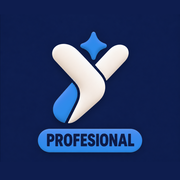
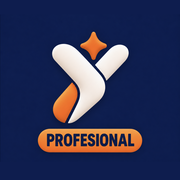
Las tres apps con la misma paleta (naranja, blanco y azul marino); se distinguen por nombre e ícono
- Se quita el tema de color por app (data-app, variantes de logo y script de recoloreo).
- Íconos de profesional y admin: «Y» naranja y blanca sobre azul marino con píldora PROFESIONAL / ADMIN.
- theme-color y manifests en naranja; docs/diseno-yavi.md sincronizado.

Claude-Session: https://claude.ai/code/session_01PReVzBZvEep99Jdh6gW8wZ

Changed region(s): [[0.1944, 0.4444, 0.8056, 0.8611], [0.4444, 0.1667, 0.6111, 0.3333]]

diff --git a/src/index.css b/src/index.css
@@ -74,64 +74,6 @@
   --yavi-clay-campo: inset 0 2px 5px rgb(120 53 15 / 0.09);
 }
 
-/*
- * Color por app (index.html fija data-app al compilar): cliente = naranja, profesional = verde azulado,
- * admin = violeta. Se redefinen los tokens brand-* y las variables que usan los degradados.
- */
-:root[data-app='profesional'] {
-  --color-brand-50: #eef4ff;
-  --color-brand-100: #dbe7ff;
-  --color-brand-200: #b9cffb;
-  --color-brand-300: #8badf0;
-  --color-brand-400: #5b84dc;
-  --color-brand-500: #2f5fc0;
-  --color-brand-600: #1c4aa6;
-  --color-brand-700: #123b8c;
-  --color-brand-800: #0d2f72;
-  --color-brand-900: #0a2358;
-  --color-brand-950: #061538;
-  --color-brand-ink: #061538;
-  --yavi-texto-boton: #ffffff;
-  --yavi-lienzo: #f5f8ff;
-  --yavi-foco: rgb(28 74 166 / 0.6);
-  --yavi-clay-boton: linear-gradient(180deg, #2f5fc0 0%, #0d2f72 100%);
-  --yavi-clay-boton-sombra: 0 10px 18px -8px rgb(13 47 114 / 0.6), inset 0 2px 0 rgb(255 255 255 / 0.25), inset 0 -3px 0 rgb(0 0 0 / 0.18);
-  --yavi-llamada: radial-gradient(120% 90% at 50% 0%, #b9cffb 0%, #8badf0 42%, #5b84dc 100%);
-  --yavi-sombra: 10 35 88;
-  --yavi-borde: rgb(10 35 88 / 0.12);
-  --yavi-clay-campo: inset 0 2px 5px rgb(10 35 88 / 0.09);
-  --yavi-fondo-cielo: #dbe7ff;
-  --yavi-tarjeta-fin: #eef4ff;
-  --yavi-burbuja: linear-gradient(145deg, #5b84dc 0%, #0d2f72 100%);
-  --yavi-burbuja-sombra: 0 8px 14px -6px rgb(13 47 114 / 0.55), inset 0 2px 0 rgb(255 255 255 / 0.4), inset 0 -3px 0 rgb(0 0 0 / 0.12);
-}
-:root[data-app='admin'] {
-  --color-brand-50: #f5f3ff;
-  --color-brand-100: #ede9fe;
-  --color-brand-200: #ddd6fe;
-  --color-brand-300: #c4b5fd;
-  --color-brand-400: #a78bfa;
-  --color-brand-500: #8b5cf6;
-  --color-brand-600: #7c3aed;
-  --color-brand-700: #6d28d9;
-  --color-brand-800: #5b21b6;
-  --color-brand-900: #4c1d95;
-  --color-brand-950: #2e1065;
-  --color-brand-ink: #2e1065;
-  --yavi-lienzo: #faf8ff;
-  --yavi-foco: rgb(124 58 237 / 0.6);
-  --yavi-clay-boton: linear-gradient(180deg, #d8ccff 0%, #a78bfa 100%);
-  --yavi-clay-boton-sombra: 0 10px 18px -8px rgb(124 58 237 / 0.6), inset 0 2px 0 rgb(255 255 255 / 0.32), inset 0 -3px 0 rgb(0 0 0 / 0.14);
-  --yavi-llamada: radial-gradient(120% 90% at 50% 0%, #d8ccff 0%, #b69cfb 42%, #8b5cf6 100%);
-  --yavi-sombra: 76 29 149;
-  --yavi-borde: rgb(76 29 149 / 0.12);
-  --yavi-clay-campo: inset 0 2px 5px rgb(76 29 149 / 0.09);
-  --yavi-fondo-cielo: #ede9fe;
-  --yavi-tarjeta-fin: #f6f3ff;
-  --yavi-burbuja: linear-gradient(145deg, #8b5cf6 0%, #5b21b6 100%);
-  --yavi-burbuja-sombra: 0 8px 14px -6px rgb(91 33 182 / 0.55), inset 0 2px 0 rgb(255 255 255 / 0.4), inset 0 -3px 0 rgb(0 0 0 / 0.12);
-}
-
 body {
   @apply text-neutral-900 antialiased;
   background: radial-gradient(120% 50% at 50% -8%, var(--yavi-fondo-cielo, #ffeedd) 0%, var(--yavi-lienzo) 58%) fixed;

diff --git a/src/components/Logo.tsx b/src/components/Logo.tsx
@@ -2,20 +2,13 @@
  * Marca YAVI. Se usan los archivos oficiales tal cual (public/brand, copia de brand/originales):
  * sin recortar ni deformar; `mix-blend-multiply` solo hace que el blanco del archivo se funda con el fondo.
  */
-import { APP } from '../lib/app'
-import { useAuth } from '../context/AuthContext'
-
-// Antes de entrar (inicio, login, registro) todas las apps usan el logo naranja original. Con sesión, profesional y admin
-// usan su variante de color (scripts/recolorear-marca.py). Mismo criterio que data-app en App.tsx.
-
 type Props = {
   variante?: 'icono' | 'completo'
   className?: string
 }
 
 export function Logo({ variante = 'completo', className = '' }: Props) {
-  const { session } = useAuth()
-  const CARPETA = APP === 'cliente' || !session ? '/brand' : `/brand/${APP}`
+  const CARPETA = '/brand'
   const completo = variante === 'completo'
   return (
     <img

diff --git a/vite.config.ts b/vite.config.ts
@@ -8,8 +8,8 @@ type TipoApp = 'cliente' | 'profesional' | 'admin'
 
 const MARCAS: Record<TipoApp, { nombre: string; corto: string; titulo: string; color: string }> = {
   cliente: { nombre: 'YAVI', corto: 'YAVI', titulo: 'YAVI — Servicios a tu alcance', color: '#ff7414' },
-  profesional: { nombre: 'YAVI Profesional', corto: 'YAVI Pro', titulo: 'YAVI Profesional — Trabaja con YAVI', color: '#0d2f72' },
-  admin: { nombre: 'YAVI Admin', corto: 'YAVI Admin', titulo: 'YAVI Admin', color: '#5b21b6' },
+  profesional: { nombre: 'YAVI Profesional', corto: 'YAVI Pro', titulo: 'YAVI Profesional — Trabaja con YAVI', color: '#ff7414' },
+  admin: { nombre: 'YAVI Admin', corto: 'YAVI Admin', titulo: 'YAVI Admin', color: '#ff7414' },
 }
 
 function htmlPorApp(app: TipoApp): Plugin {

diff --git a/src/App.tsx b/src/App.tsx
@@ -32,12 +32,6 @@ function App() {
     // eslint-disable-next-line react-hooks/exhaustive-deps
   }, [cargando])
 
-  // Color por app solo en las pantallas internas (con sesión). Inicio, login y registro conservan el naranja original.
-  const conSesion = !!session
-  useEffect(() => {
-    document.documentElement.dataset.app = conSesion ? APP : 'cliente'
-  }, [conSesion])
-
   // Al tocar una notificación push con la app ya abierta en otra pestaña,
   // el service worker enfoca esa pestaña y nos manda a dónde navegar (una
   // pestaña ya enfocada no cambia de URL sola).

diff --git a/scripts/icono-navy.py b/scripts/icono-navy.py
@@ -18,24 +18,6 @@ L = 1500
 base = Image.new('RGB', (L, L), FONDO)
 base.paste(cont.resize((1500, int(1500 * cont.height / cont.width))), (0, 120))
 
-def a_variante(img, desplaza):
-    a = np.asarray(img.convert('RGB'), dtype=np.float64) / 255
-    mx, mn = a.max(-1), a.min(-1); dd = mx - mn
-    r, g, b = a[..., 0], a[..., 1], a[..., 2]
-    h = np.zeros_like(mx); m = dd > 1e-9
-    rc = m & (mx == r); gc = m & (mx == g) & ~rc; bc = m & ~rc & ~gc
-    h[rc] = ((g - b)[rc] / dd[rc]) % 6; h[gc] = (b - r)[gc] / dd[gc] + 2; h[bc] = (r - g)[bc] / dd[bc] + 4
-    h *= 60; s = np.where(mx > 0, dd / np.where(mx > 0, mx, 1), 0)
-    hn = np.where(h > 340, h - 360, h)
-    mk = (hn < 65) & (s > 0.15)
-    h2 = np.where(mk, desplaza + 0.5 * np.clip(hn, -20, 65), h)
-    h6 = (h2 % 360) / 60; i = np.floor(h6).astype(int) % 6; f = h6 - np.floor(h6)
-    p, q, t = mx * (1 - s), mx * (1 - s * f), mx * (1 - s * (1 - f))
-    out = np.zeros(a.shape)
-    for k, (rr, gg, bb) in enumerate([(mx, t, p), (q, mx, p), (p, mx, t), (p, q, mx), (t, p, mx), (mx, p, q)]):
-        w = i == k; out[w] = np.stack([rr[w], gg[w], bb[w]], -1)
-    return Image.fromarray((out * 255).round().astype(np.uint8))
-
 def pastilla(img, texto, c1, c2):
     # Pinta de nuevo la zona de la píldora con el fondo y dibuja una nueva con el texto.
     dr = ImageDraw.Draw(img)
@@ -65,9 +47,9 @@ def guardar(img, app):
     for nombre, px in [('icon-512.png', 512), ('icon-192.png', 192), ('apple-touch-icon.png', 180), ('favicon-64.png', 64)]:
         img.resize((px, px), Image.LANCZOS).save(os.path.join(RAIZ, app, nombre))
 
-guardar(a_variante(base, 200), 'profesional')  # celeste sobre azul marino (el naranja es del cliente)
+guardar(base, 'profesional')  # naranja, blanco y azul marino (colores de la marca) (el naranja es del cliente)
 Image.fromarray(np.asarray(base)).resize((1024, 1024), Image.LANCZOS).save(os.path.join(RAIZ, 'profesional', 'yavi-icono-naranja-original.png'))
-adm = a_variante(base, 255)
-pastilla(adm, 'ADMIN', (205, 188, 255), (139, 92, 246))
+adm = base.copy()
+pastilla(adm, 'ADMIN', (244, 160, 80), (224, 104, 44))
 guardar(adm, 'admin')
 print('ok')

diff --git a/docs/diseno-yavi.md b/docs/diseno-yavi.md
@@ -15,12 +15,8 @@ La app se presenta como **YAVI — «Servicios a tu alcance»**. Conecta cliente
 - `rounded-lg…3xl` y `shadow-xs…xl` redefinidos: radios generosos, sombra difusa tibia y reflejo interior superior (claymorphism moderado).
 - Como la app ya usaba esas clases, el estilo llega a todas las pantallas sin tocarlas una por una.
 
-## Color por app
-`App.tsx` marca `<html data-app="cliente|profesional|admin">` **solo con sesión iniciada** (pantallas internas); antes de entrar —pantalla de inicio, login, registro, recuperar contraseña— todas las apps conservan el naranja original, y `Logo.tsx` aplica el mismo criterio. `src/index.css` redefine, bajo `:root[data-app=…]`, los tokens `brand-*`, la tinta del botón, el lienzo, los degradados (botón, burbuja, pantalla de llamada, fondo, tarjeta de categoría), el tinte de sombras y bordes (`--yavi-sombra`) y el foco.
-- **Cliente:** naranja YAVI (sin cambios).
-- **Profesional:** azul marino (paleta `navy`, `brand-700` #123b8c; botones en degradado azul con texto blanco vía `--yavi-texto-boton`). Barra del navegador `#0d2f72`.
-- **Admin:** violeta (`brand-700` #6d28d9). Barra del navegador `#5b21b6`.
-También cambian `theme_color`/`background_color` de los manifests. Logo (con sesión), favicon e íconos de instalación también tienen variante por app (`public/brand/profesional` y `public/brand/admin`, generadas con `scripts/recolorear-marca.py` a partir de los originales, que no se tocan; el cliente conserva el naranja). Los **íconos de instalación** (`icon-192/512`, `apple-touch-icon`, `favicon-64`) de profesional y admin van sobre azul marino con la «Y» y una píldora con el nombre («PROFESIONAL» en celeste, «ADMIN» en violeta), generados con `scripts/icono-navy.py` a partir del diseño que aprobó el dueño (el original naranja queda en `public/brand/profesional/yavi-icono-naranja-original.png`). **No cambian** los colores de estado (verde éxito, ámbar alerta, rojo error). Tras actualizar, en el iPad hay que quitar el acceso directo y volver a agregarlo para ver el color de la barra y el ícono.
+## Las tres apps, una sola paleta
+Cliente, Profesional y Admin usan **los mismos colores de la marca: naranja, blanco y azul marino** (tokens `brand-*` y `navy-*` de arriba). No hay tema de color por app (se probó verde azulado, azul y violeta y se descartó). Lo que distingue a cada app es el **nombre**: «YAVI», «YAVI Profesional» y «YAVI Admin» (título, barra superior y manifest) y la **píldora del ícono de instalación**: `public/brand/profesional/` y `public/brand/admin/` llevan la «Y» naranja y blanca sobre azul marino con la píldora «PROFESIONAL» o «ADMIN» (generados con `scripts/icono-navy.py` a partir del diseño que aprobó el dueño; el original queda en `public/brand/profesional/yavi-icono-naranja-original.png`). El cliente usa el ícono oficial. `theme-color` de las tres apps: `#ff7414`. Tras cambiar un ícono, en el iPad hay que quitar el acceso directo y volver a agregarlo.
 
 ## Piezas compartidas
 - CSS: `.yavi-tarjeta`, `.yavi-categoria` + `.yavi-burbuja` (la pieza más expresiva), `.yavi-boton-secundario`, `.yavi-aviso[data-tipo]`, `.yavi-esqueleto`. Todo elemento con `bg-brand-700` toma el naranja cálido de arcilla (degradado #ff8a2b → #ec5f10) con texto `brand-ink`.
